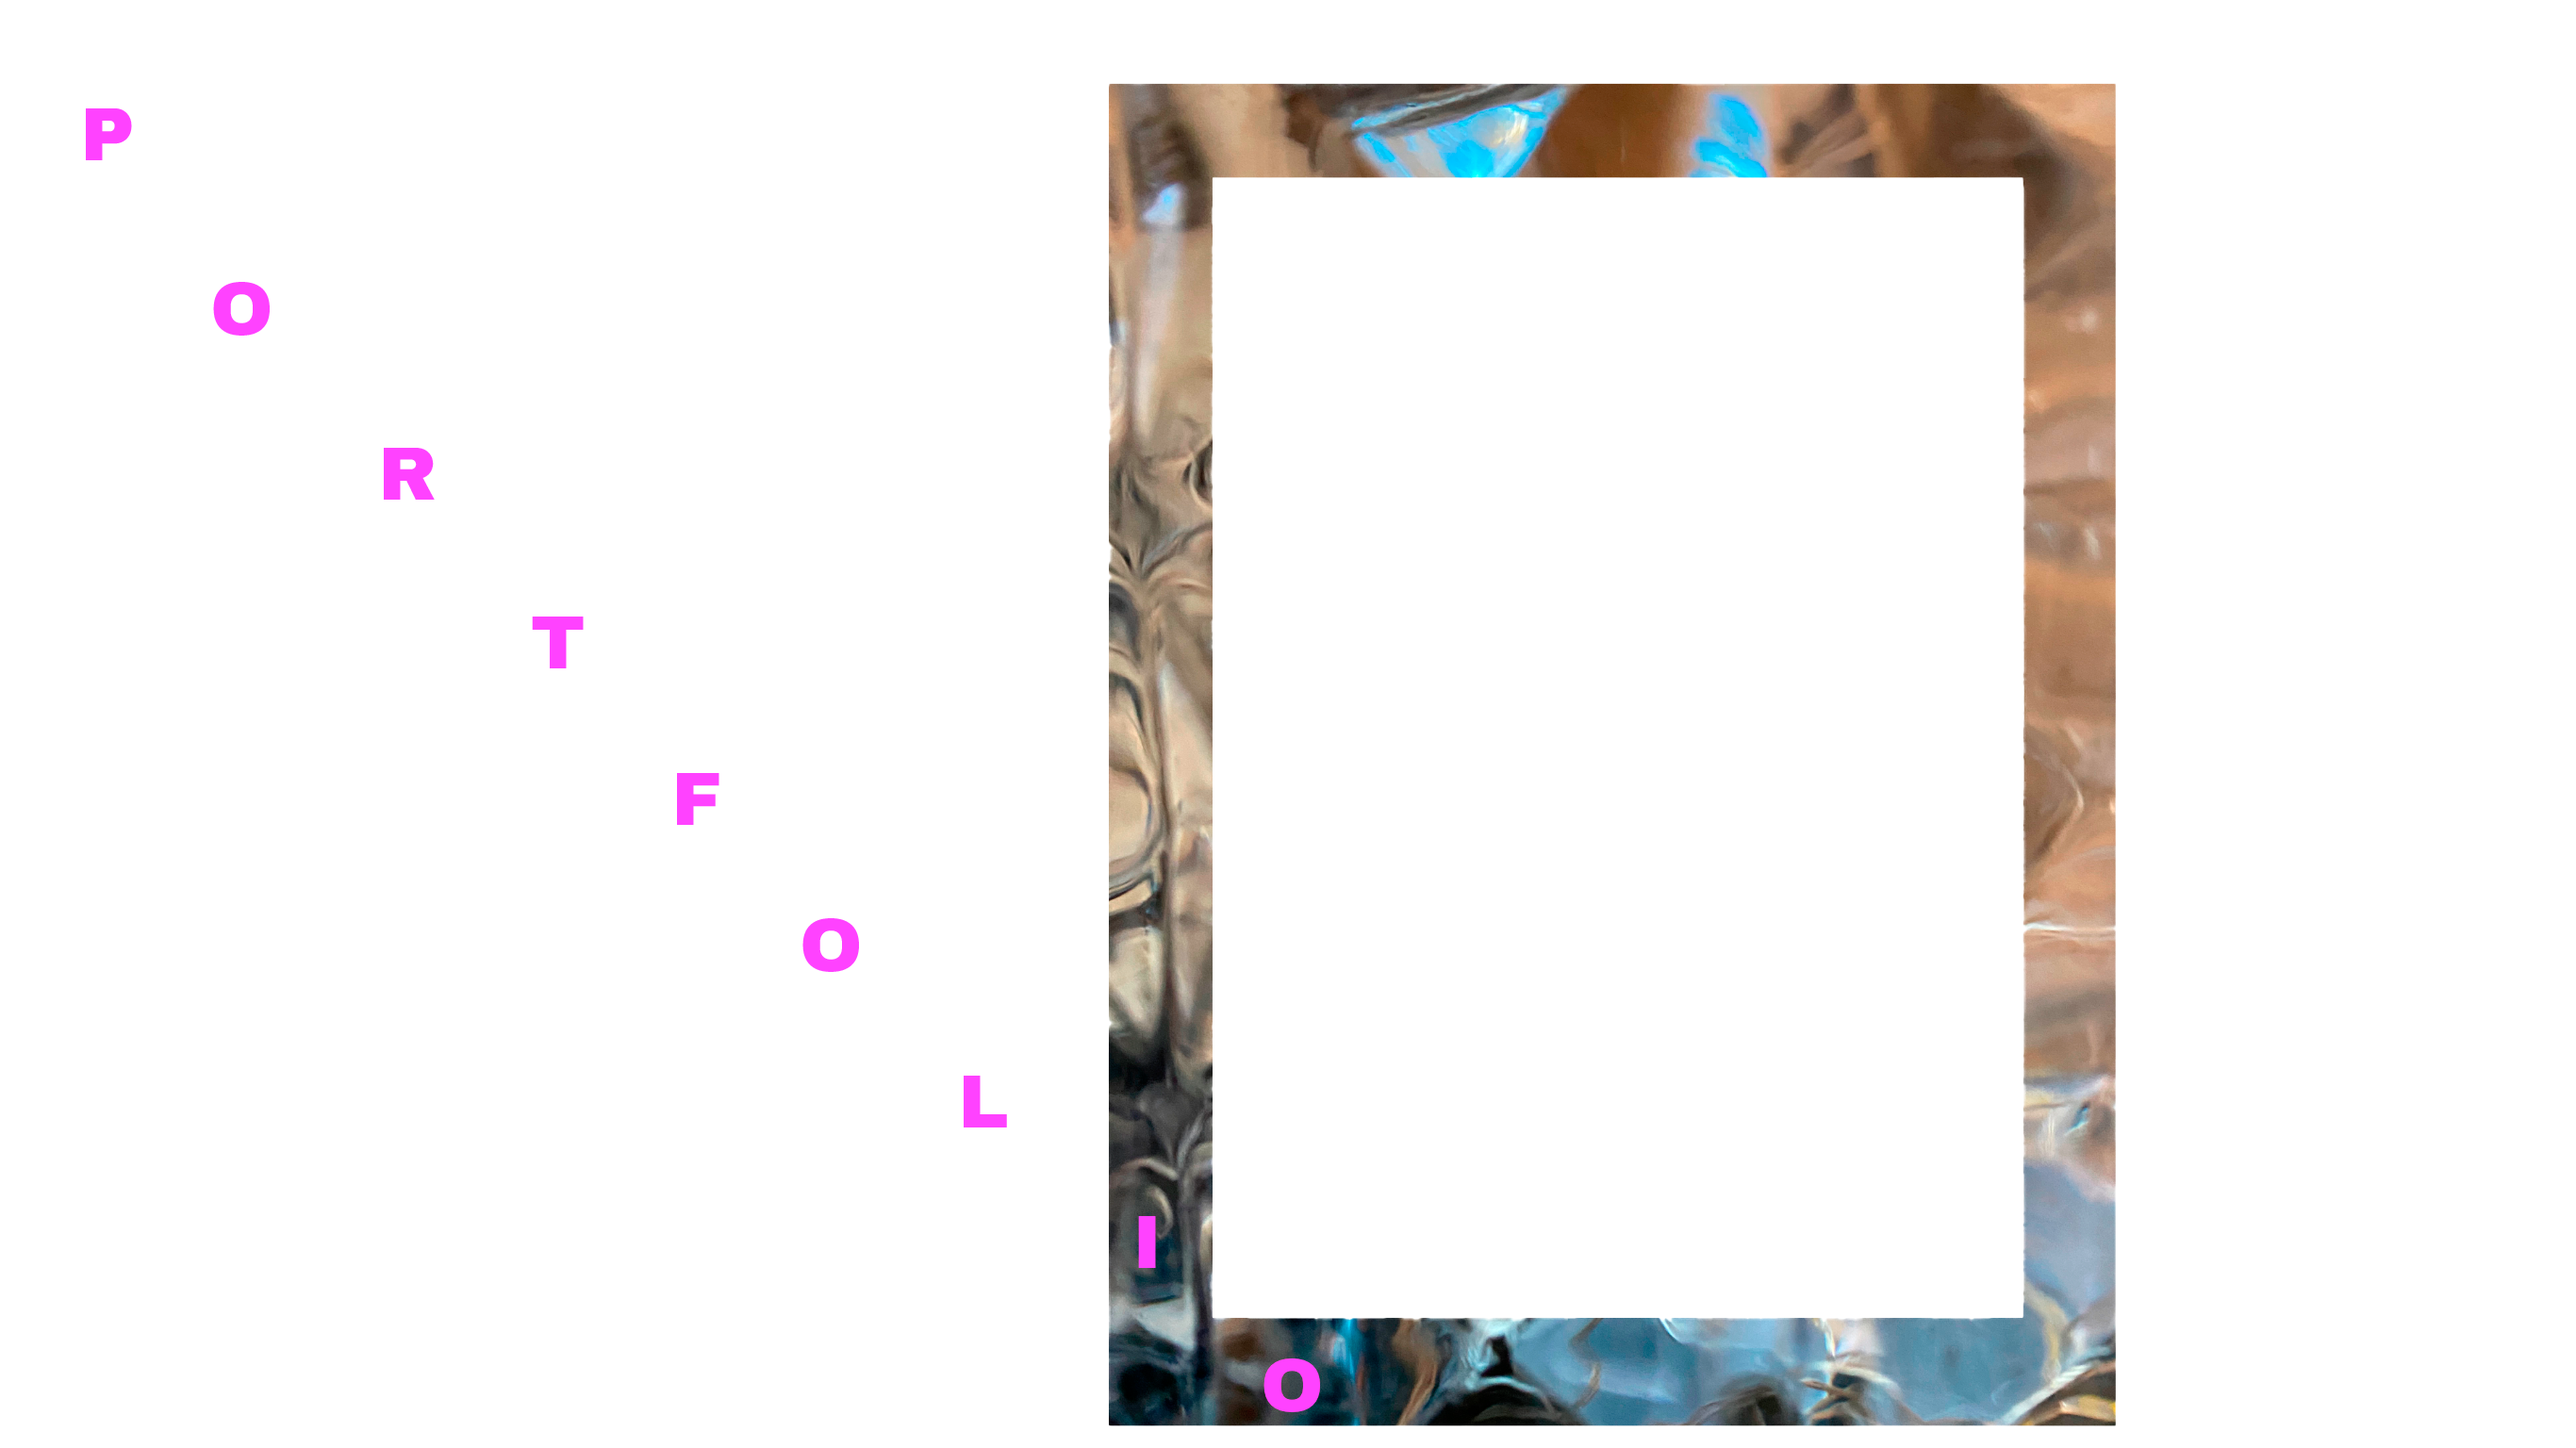
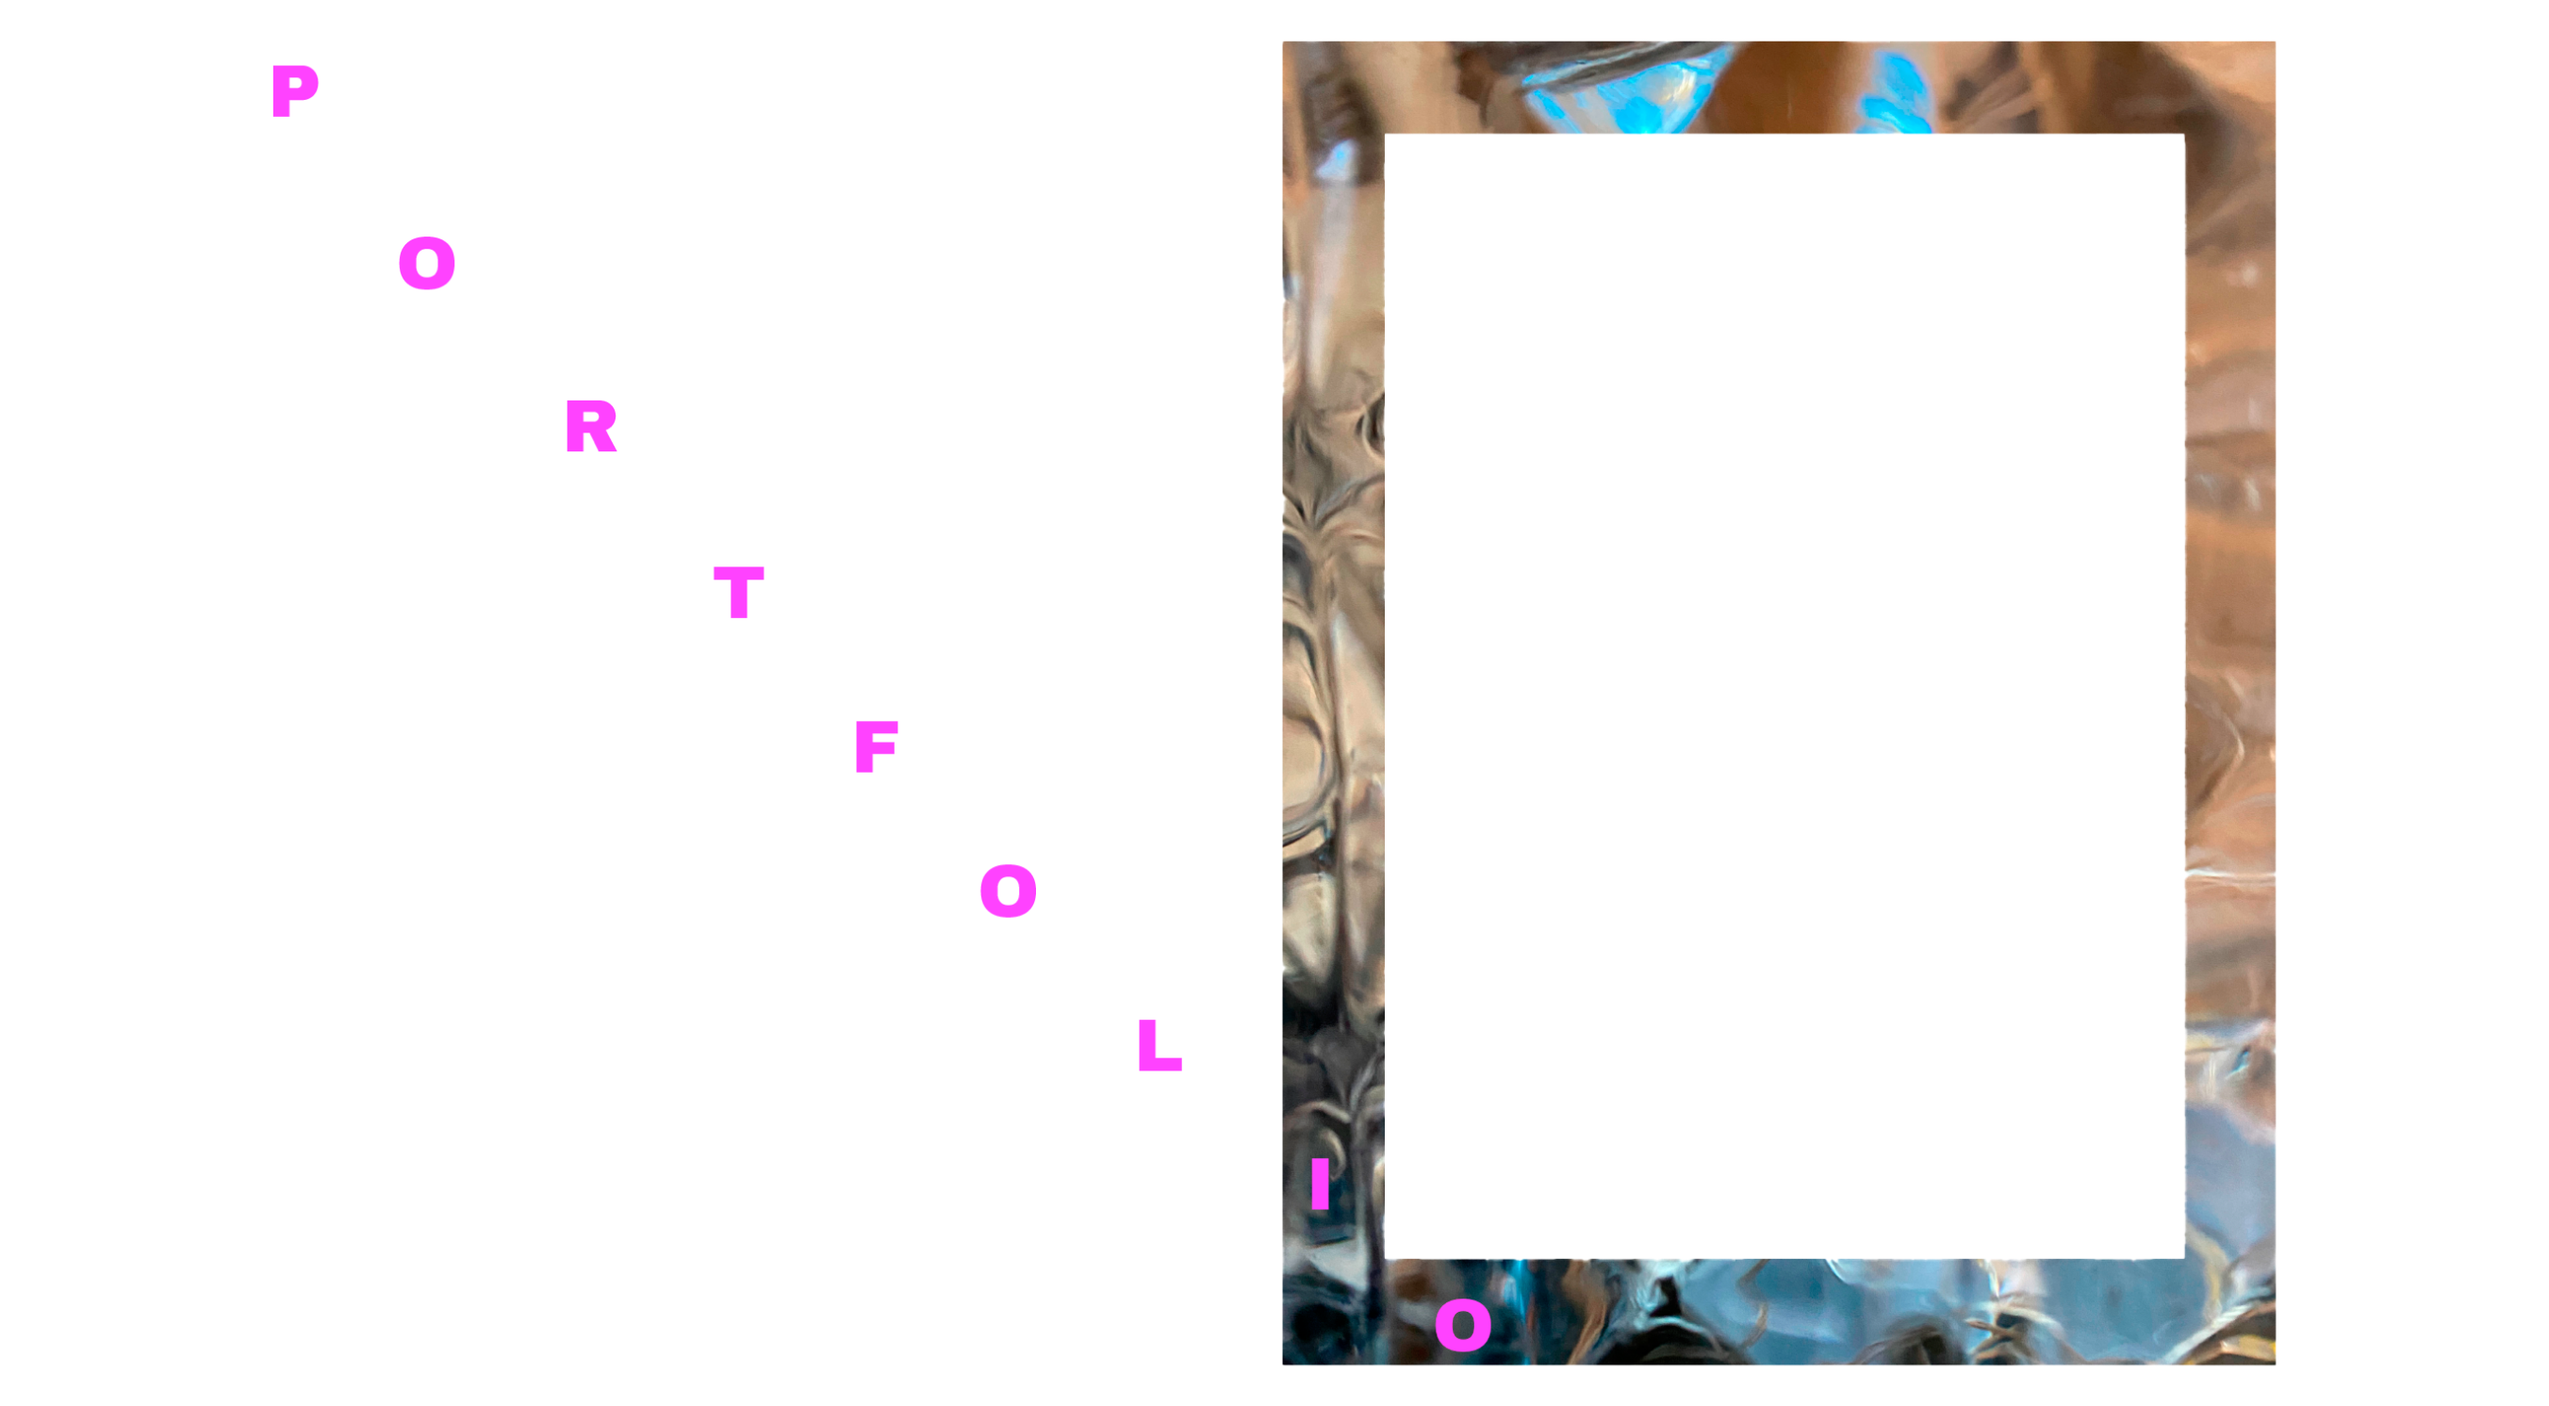
sara34

diff --git a/om_mig.html b/om_mig.html
@@ -72,10 +72,6 @@
         </h2>
       </div>
 
-      <!--   <div class="collage">
-        <img src="/Billeder/collage.JPG" alt="" width="60%" height="60%" />
-      </div> -->
-
       <div class="overskrift_4">
         <h2>
           “Jeg er nysgerrig på livet og hvad det kan. <br />

diff --git a/portfolio.html b/portfolio.html
@@ -31,7 +31,7 @@
     </header>
 
     <div class="splash-billede">
-      <img src="/billeder/portfolio.png" alt="" width="90%" />
+      <img src="/billeder/portfolio.png" alt="" />
     </div>
 
     <br />

diff --git a/portfolio_1.css b/portfolio_1.css
@@ -20,8 +20,9 @@ header {
   margin-top: 10px;
 }
 
-.splash-billede {
-  text-align: right;
+img {
+  width: 85%;
+  padding-left: 10%;
 }
 
 #first_section {
